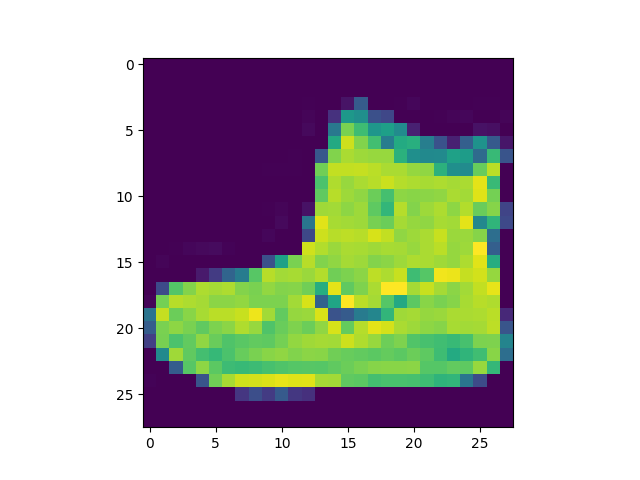
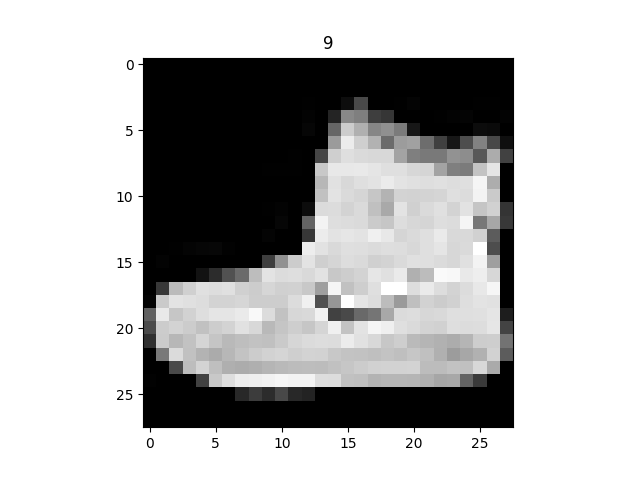
torch dataloader

diff --git a/pytorch_computer_vision.py b/pytorch_computer_vision.py
@@ -66,6 +66,22 @@ print(f"Image lable: {class_names[label]}")
 
 #plt.imshow(image) #this will result in a shape mismatch because imshow expects either just the heigth and width or color channels last, but since we are using grayscale images, we cant just squeeze the extra dimension
 
-plt.imshow(image.squeeze())
+plt.imshow(image.squeeze()) #this squeeze will remove that extra dimension
+plt.title(label)
+plt.imshow(image.squeeze(), cmap="gray")
 plt.savefig("test_image.png")
+
+torch.manual_seed(42)
+torch.cuda.manual_seed(42)
+fig = plt.figure(figsize=(9,9))
+rows, cols = 4, 4
+for i in range(1, rows*cols+1):
+    random_idx = torch.randint(0, len(train_data), size=[1]).item()
+    img, label = train_data[random_idx]
+    fig.add_subplot(rows, cols, i)
+    plt.imshow(img.squeeze(), cmap="gray")
+    plt.title(class_names[label])
+    plt.axis(False)
+    plt.savefig("test_image_collection.png")
+    print(random_idx) 
 
